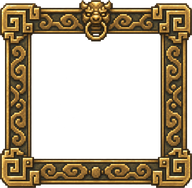
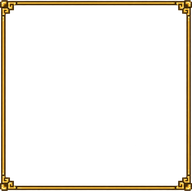
头像框重出：去掉顶上的兽首，四边收成一道细金线
上一版框身占了边长的七分之一，上边还顶着一枚兽首铺首，
把上沿一下子撑厚一大截，脸被挤得只剩中间一小块。
提示词改成「四条边一样细、框宽不超过边长的十八分之一、
洞占画面八成五以上、上沿不要任何凸起顶饰」。
量出来的洞从 [32,42,128,116] 变成 [6,6,180,179]，脸基本占满整框。

diff --git a/image-studio/battleui.js b/image-studio/battleui.js
@@ -42,11 +42,14 @@ const ITEMS = [
    '素一点，它只是让文字有个落脚的底，不是画面的主角。'],
 
   ['portrait', '武将头像框',
-   '一个方形的**头像外框**：黄铜錾花的边框，四角是汉代风格的云雷纹转角，' +
-   '上沿正中有一枚小小的兽首铺首衔环。' +
+   '一个方形的**头像外框**，框身要**很细**：一道细窄的黄铜边，' +
+   '只在四个角上各点一小段汉代云雷纹当转角，其余三边就是素净的细线。' +
+   '**上沿不要兽首、不要铺首衔环、不要任何凸起的顶饰**——' +
+   '那东西会把上边一下子撑厚一大截。四条边必须一样细。\n' +
+   '**框身的宽度不超过画面边长的十八分之一，中间那个洞要占到画面的八成五以上。**\n' +
    '**框的正中间是一个完整的正方形空洞，必须完全透明**——' +
    '那里稍后要放武将的头像，所以**洞里一个像素都不要画**，' +
-   '也不要画底色、不要画灰白棋盘格。框身的宽度约占画面边长的七分之一。'],
+   '也不要画底色、不要画灰白棋盘格。'],
 
   ['mapbg', '小地图内衬',
    '一整块**深色的旧皮革**质感底纹，用作小地图的衬底：近乎全暗的赭褐色，' +
